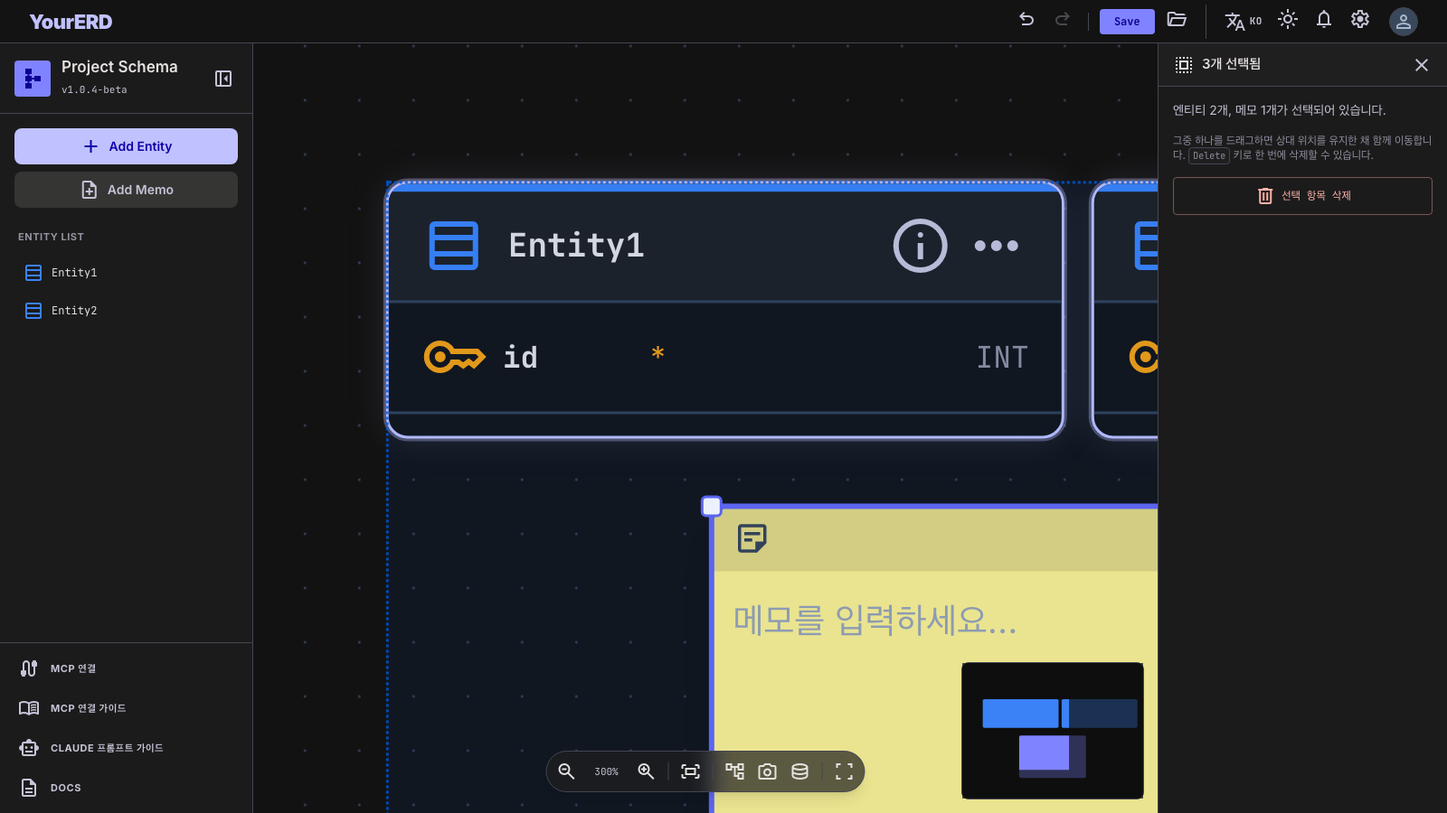
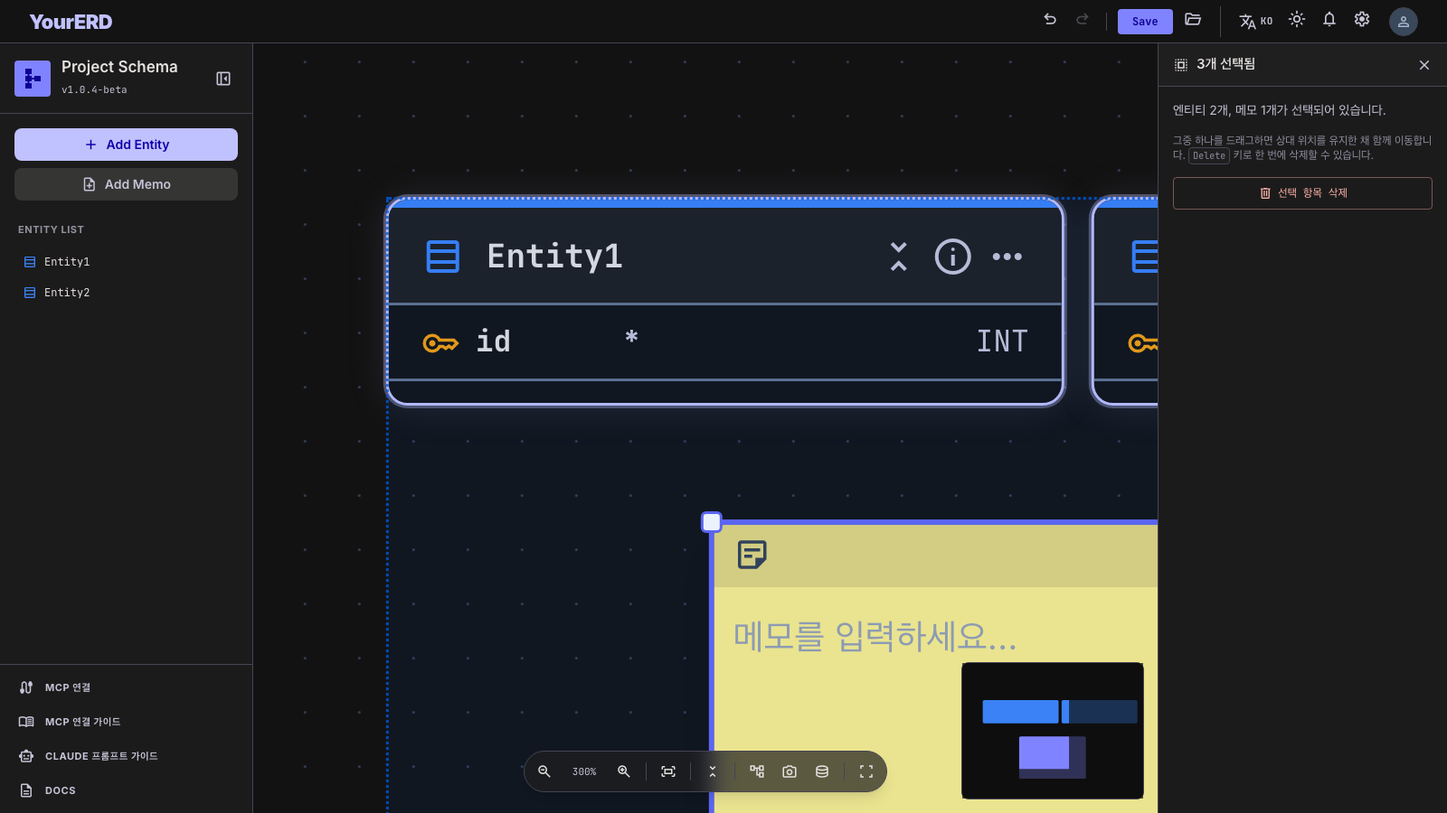
feat(node): 엔티티 노드 가독성 개선 — 아이콘 크기 정정·행 압축·접기/펼치기
17테이블·350컬럼 규모에서 작은 노트북 100% 배율로 편집할 때 한 화면에 들어오는
엔티티가 너무 적던 문제를 해결한다.

근본 원인은 예상 밖이었다. Google Fonts의
`.material-symbols-outlined { font-size: 24px }` 는 캐스케이드 레이어 밖인데
Tailwind v4 유틸리티는 @layer utilities 안이라, 레이어 밖 선언이 항상 이긴다.
그래서 컴포넌트에 붙인 text-[14px]/[16px]/[18px] 가 전부 무시되고 앱의 아이콘
28개가 모두 24px 로 렌더되고 있었다(툴바·사이드바 포함 전역). 이것이 컬럼 행
높이를 32px 로 고정하던 직접 원인이다. index.css 에 같은 '레이어 밖' 규칙으로
실제 사용 중인 10개 크기만 되돌려 컴포넌트 무수정으로 전역 해결했다.

이어서:
- 컬럼 행 py-1 → py-0.5 leading-[15px] (서브타입 박스 행과 밀도 통일)
- --color-node-border 다크 #334155→#64748b, 라이트 #b0a8d0→#8b82ab
- 컬럼 타입 opacity-70 제거, NOT NULL * 를 PK 주황에서 중립색으로 분리
- 엔티티 접기/펼치기 — 헤더 chevron + 컬럼 수 배지 + 줌 툴바 일괄 토글

접힘은 저장 포맷이 아니라 UI 상태(erdStore.collapsedEntityIds)다.
types/erd.ts·MCP·협업 op·저장 파일을 전혀 건드리지 않는다. 접혀도 핸들과
entity-info-icon 이 남아 연결·편집 경로가 보존된다(17개 e2e 가 쓰는 셀렉터).

정량 결과 (1440x900 · 100%, git stash 대조 실측):
- 컬럼 행 32px → 19px (-41%)
- 세로 900px 에 통째로 담기는 테이블 14/17 → 17/17
- 전체 노드 높이 합 10,096px → 7,636px (-24%)
- 노드 테두리 대비 1.8:1 → 4.0:1
- 모두 접으면 697px, Fit View 줌 20% → 38%

검증: verify_node_density.mjs 신규 17항목 PASS, 회귀 15종 PASS,
빌드 PASS, lint 기존 baseline 16건 유지(신규 0), 다크·라이트 스크린샷 확인.

부수 정리: verify_inline_edit.mjs 가 결함 3개로 한 번도 통과한 적 없던 것을
수정해 처음 PASS — 빈 캔버스에서 노드를 먼저 대기, 셀렉터 input 이 숨은
input[type=file] 에 매칭, page.keyboard.fill 은 Playwright 에 없는 API.

범위 밖(의도적): 줌 기반 LOD, 노드 폭 상한·말줄임, 큰 테이블 내부 스크롤,
우클릭 메뉴 접기 항목.

diff --git a/erd-service/public/manual.html b/erd-service/public/manual.html
@@ -141,7 +141,7 @@
           <li><strong>클릭</strong> — 엔티티 본문(물리명, 논리명, 설명, 색상, 컬럼, SubSet)을 편집하는 <strong>모달</strong>을 엽니다.</li>
           <li><strong>마우스 올리기(호버)</strong> — 클릭 없이 훑어볼 수 있는 <strong>읽기전용 미리보기</strong>가 뜹니다. 설명(Description)과 UNIQUE 여부처럼 노드 본문에는 표시되지 않는 정보까지 한 번에 보여줍니다.</li>
           <li><strong>노드 더블클릭 빠른 편집</strong> — 캔버스 상의 엔티티 <strong>물리명·논리명(한글명)</strong>이나 컬럼 <strong>속성명·한글명·데이터 타입</strong>을 <strong>더블클릭</strong>하면 모달을 열지 않고 캔버스 상에서 바로 수정할 수 있습니다(→ 5.1).</li>
-          <li>엔티티 본문(헤더 제외)을 클릭하면 <strong>선택(하이라이트)</strong>만 되며, 모달은 열리지 않습니다. 또는 <strong>우클릭 → 편집</strong>으로도 같은 모달을 열 수 있습니다(→ 4.4).</li>
+          <li>엔티티 본문(헤더 제외)을 클릭하면 <strong>선택(하이라이트)</strong>만 되며, 모달은 열리지 않습니다. 또는 <strong>우클릭 → 편집</strong>으로도 같은 모달을 열 수 있습니다(→ 4.6).</li>
         </ul>
         <p>모달에서 편집 가능한 항목:</p>
         <table>
@@ -154,7 +154,19 @@
         <div class="note">노드·사이드바·편집 모달 모두 <strong>물리명 + 논리명</strong>을 함께 표시합니다.</div>
         <h3>4.3 엔티티 삭제</h3>
         <p>편집 모달 헤더의 <strong>🗑(삭제)</strong> 버튼을 누르거나, 엔티티를 <strong>우클릭 → 삭제</strong>하거나, 엔티티를 선택한 상태에서 <strong><code>Delete</code></strong> 키를 누르면 확인 후 삭제됩니다. 연결된 관계선과, 다른 엔티티에 자동 생성됐던 FK 컬럼도 함께 정리됩니다.</p>
-        <h3>4.4 우클릭 컨텍스트 메뉴</h3>
+        <h3>4.5 엔티티 접기 / 펼치기</h3>
+        <p>엔티티 헤더 우측의 <strong>접기 아이콘</strong>을 누르면 컬럼 목록과 SubSet 영역이 감춰지고
+        <strong>헤더만 남습니다.</strong> 작은 노트북처럼 세로 공간이 부족할 때, 지금 보는 테이블 2~3개만
+        펼쳐 두고 나머지는 접으면 전체 구조와 상세를 한 화면에서 함께 볼 수 있습니다.</p>
+        <ul>
+          <li>접힌 엔티티에는 <strong>컬럼 수 배지</strong>가 표시되어 규모를 알 수 있습니다.</li>
+          <li>접혀 있어도 <strong>관계선 연결·선택·삭제·ⓘ 편집 모달</strong>은 그대로 동작합니다.</li>
+          <li>줌 툴바의 <strong>모두 접기 / 모두 펼치기</strong> 버튼으로 한 번에 전환할 수 있습니다.
+          모두 접은 뒤 <strong>자동 정렬(🌳)</strong>을 누르면 간격까지 다시 계산되어 훨씬 촘촘해집니다.</li>
+          <li>접힘 상태는 <strong>보기 설정</strong>이라 다이어그램에 저장되지 않습니다. 다시 열면 모두 펼쳐진 상태로 시작합니다.</li>
+        </ul>
+
+        <h3>4.6 우클릭 컨텍스트 메뉴</h3>
         <p>엔티티(또는 관계선·메모)를 <strong>우클릭</strong>하면 <strong>편집 · 삭제</strong> 두 항목의 메뉴가 뜹니다. info 아이콘·✎ 아이콘 클릭과 동일하게 편집 모달을 열 수 있는 대체 경로이며, 메모처럼 전용 아이콘이 없는 요소는 이 방법이 편집 모달을 여는 유일한 경로입니다.</p>
       </section>
 
@@ -311,6 +323,7 @@
           <tr><td>배율 표시</td><td>현재 확대 배율</td></tr>
           <tr><td>확대 🔍＋</td><td>줌 인</td></tr>
           <tr><td>화면 맞춤</td><td>모든 엔티티가 보이도록 맞춤</td></tr>
+          <tr><td>모두 접기 / 모두 펼치기</td><td>모든 엔티티를 헤더만 남기고 접거나 다시 펼침 (→ 4.5)</td></tr>
           <tr><td>자동 정렬 🌳</td><td>관계 구조에 맞춰 엔티티 자동 배치 (실행 취소 가능)</td></tr>
           <tr><td>PNG 내보내기 📷</td><td>다이어그램을 PNG 이미지로 저장</td></tr>
           <tr><td>SQL 내보내기 🗄</td><td>MySQL DDL(<code>.sql</code>)로 내보내기</td></tr>

diff --git a/erd-service/src/components/nodes/EntityNode.tsx b/erd-service/src/components/nodes/EntityNode.tsx
@@ -96,6 +96,10 @@ function EntityNode({ data }: NodeProps) {
   const openPreview = () => { cancelHide(); setShowPreview(true); };
   const scheduleHidePreview = () => { cancelHide(); hideTimerRef.current = window.setTimeout(() => setShowPreview(false), 150); };
 
+  // 접힘 여부만 selector 로 구독 — boolean 이라 값이 바뀔 때만 이 노드가 리렌더된다
+  const collapsed = useERDStore(s => s.collapsedEntityIds.includes(entityData.id));
+  const toggleCollapse = useERDStore(s => s.toggleEntityCollapse);
+
   const pkCols = entityData.columns.filter(c => c.isPK);
   const nonPKCols = entityData.columns.filter(c => !c.isPK);
 
@@ -166,7 +170,7 @@ function EntityNode({ data }: NodeProps) {
     const isEditingType = editingKey === `col-type-${col.id}`;
 
     return (
-      <div key={col.id} className="px-3 py-1 flex items-center justify-between gap-2 hover:bg-surface-variant group">
+      <div key={col.id} className="px-3 py-0.5 leading-[15px] flex items-center justify-between gap-2 hover:bg-surface-variant group">
         <div className={`flex items-center gap-1.5 min-w-0 flex-1 ${!isPK && !col.isFK ? 'pl-5' : ''}`}>
           {isPK && (
             <span className="material-symbols-outlined text-[14px] text-pk-color shrink-0" title="Primary Key">key</span>
@@ -218,14 +222,14 @@ function EntityNode({ data }: NodeProps) {
               {col.logicalName ? (
                 col.logicalName
               ) : (
-                <span className="opacity-0 group-hover:opacity-40 hover:!opacity-100 text-outline text-[9px] italic">
+                <span className="opacity-0 group-hover:opacity-60 hover:!opacity-100 text-outline text-[9px] italic">
                   {t('node.addLogical')}
                 </span>
               )}
             </span>
           )}
 
-          {col.isNN && <span className="text-pk-color text-[11px] shrink-0">*</span>}
+          {col.isNN && <span className="text-on-surface-variant text-[11px] font-bold shrink-0" title="NOT NULL">*</span>}
         </div>
 
         {isEditingType ? (
@@ -238,7 +242,7 @@ function EntityNode({ data }: NodeProps) {
           />
         ) : (
           <span
-            className="font-mono text-[11px] text-on-surface-variant opacity-70 group-hover:opacity-100 shrink-0 cursor-pointer hover:text-primary hover:underline"
+            className="font-mono text-[11px] text-on-surface-variant shrink-0 cursor-pointer hover:text-primary hover:underline"
             title={t('node.dblType')}
             data-testid="col-type"
             onDoubleClick={e => {
@@ -335,6 +339,25 @@ function EntityNode({ data }: NodeProps) {
             )}
           </div>
           <div className="flex items-center gap-1 shrink-0">
+            {/* 접힘일 때만 컬럼 수를 보여줘 정보 손실을 보완한다 */}
+            {collapsed && (
+              <span
+                className="font-mono text-[10px] text-on-surface-variant bg-surface-variant rounded px-1.5 py-px shrink-0"
+                data-testid="entity-column-count"
+              >
+                {entityData.columns.length}
+              </span>
+            )}
+            <button
+              className="text-on-surface-variant hover:text-primary cursor-pointer flex items-center"
+              title={t(collapsed ? 'node.expand' : 'node.collapse')}
+              data-testid="entity-collapse-toggle"
+              onClick={e => { e.stopPropagation(); toggleCollapse(entityData.id); }}
+            >
+              <span className="material-symbols-outlined text-[16px]">
+                {collapsed ? 'unfold_more' : 'unfold_less'}
+              </span>
+            </button>
             <div
               className="flex items-center"
               onMouseEnter={openPreview}
@@ -379,6 +402,9 @@ function EntityNode({ data }: NodeProps) {
           </div>
         )}
 
+        {/* 본문 — 접히면 헤더만 남는다 (핸들·info 아이콘은 유지되므로 연결·편집은 그대로 동작) */}
+        {!collapsed && (
+        <>
         {/* PK Columns */}
         {pkCols.length > 0 && (
           <div className="border-b border-node-border py-1">
@@ -571,6 +597,8 @@ function EntityNode({ data }: NodeProps) {
               ))}
             </div>
           </div>
+        )}
+        </>
         )}
       </div>
 

diff --git a/erd-service/public/en/manual.html b/erd-service/public/en/manual.html
@@ -143,7 +143,7 @@
           <li><strong>Click</strong> — opens the <strong>modal</strong> for editing the entity (physical name, logical name, description, color, columns, SubSet).</li>
           <li><strong>Hover</strong> — shows a <strong>read-only preview</strong> you can skim without clicking. It includes information the node body does not show, such as the description and whether a column is UNIQUE.</li>
           <li><strong>Double-click quick edit on the node</strong> — <strong>double-click</strong> an entity's <strong>physical or logical name</strong>, or a column's <strong>name, logical name or data type</strong>, to edit it in place without opening the modal (see 5.1).</li>
-          <li>Clicking the entity body (outside the header) only <strong>selects (highlights)</strong> it; no modal opens. <strong>Right-click → Edit</strong> opens the same modal (see 4.4).</li>
+          <li>Clicking the entity body (outside the header) only <strong>selects (highlights)</strong> it; no modal opens. <strong>Right-click → Edit</strong> opens the same modal (see 4.6).</li>
         </ul>
         <p>What you can edit in the modal:</p>
         <table>
@@ -156,7 +156,22 @@
         <div class="note">The node, the sidebar and the editor modal all show the <strong>physical name and the logical name</strong> together.</div>
         <h3>4.3 Deleting an entity</h3>
         <p>Press the <strong>🗑 (delete)</strong> button in the modal header, <strong>right-click → Delete</strong>, or select the entity and press <strong><code>Delete</code></strong>. After you confirm, the entity is removed along with its relationships and any FK columns that were auto-generated in other entities.</p>
-        <h3>4.4 Right-click context menu</h3>
+        <h3>4.5 Collapsing and expanding an entity</h3>
+        <p>The <strong>collapse icon</strong> on the right of an entity header hides its column list and SubSet
+        region, leaving <strong>only the header</strong>. When vertical space is tight — a small laptop, for
+        instance — keep the two or three tables you are working on expanded and collapse the rest, and the
+        overall structure and the detail fit on one screen together.</p>
+        <ul>
+          <li>A collapsed entity shows a <strong>column-count badge</strong> so you still know how big it is.</li>
+          <li>While collapsed, <strong>drawing relationships, selecting, deleting and the ⓘ editor modal</strong> all keep working.</li>
+          <li>The <strong>Collapse all / Expand all</strong> button in the zoom toolbar switches every entity at once.
+          Collapse everything and then press <strong>Auto layout (🌳)</strong> — the spacing is recomputed for the
+          smaller nodes, so the diagram packs much tighter.</li>
+          <li>Collapsing is a <strong>view setting</strong>, not part of the diagram: it is not saved, and reopening
+          the diagram starts with everything expanded.</li>
+        </ul>
+
+        <h3>4.6 Right-click context menu</h3>
         <p><strong>Right-clicking</strong> an entity (or a relationship or memo) opens a menu with <strong>Edit</strong> and <strong>Delete</strong>. It is an alternative route to the same editor modal as the info and ✎ icons — and for elements without a dedicated icon, such as memos, it is the only way to open the modal.</p>
       </section>
 
@@ -313,6 +328,7 @@
           <tr><td>Zoom level</td><td>Current zoom percentage</td></tr>
           <tr><td>Zoom in 🔍＋</td><td>Zoom in</td></tr>
           <tr><td>Fit view</td><td>Fits every entity on screen</td></tr>
+          <tr><td>Collapse all / Expand all</td><td>Collapses every entity down to its header, or expands them again (see 4.5)</td></tr>
           <tr><td>Auto layout 🌳</td><td>Arranges entities to match the relationship structure (undoable)</td></tr>
           <tr><td>Export PNG 📷</td><td>Saves the diagram as a PNG image</td></tr>
           <tr><td>Export SQL 🗄</td><td>Exports MySQL DDL (<code>.sql</code>)</td></tr>

diff --git a/erd-service/src/store/erdStore.ts b/erd-service/src/store/erdStore.ts
@@ -73,6 +73,12 @@ interface ERDStore {
   openMemoEditor: (id: string) => void;
   closeEditor: () => void;
 
+  // 노드 접기 — 작은 화면에서 지금 보는 테이블만 펼쳐 두기 위한 **UI 상태**.
+  // 저장 포맷·types/erd.ts·MCP·협업 op를 건드리지 않으려고 문서가 아닌 스토어에만 둔다(세션 한정).
+  collapsedEntityIds: string[];
+  toggleEntityCollapse: (id: string) => void;
+  setAllEntitiesCollapsed: (collapsed: boolean) => void;
+
   addMemo: (pos?: { x: number; y: number }) => void;
   updateMemo: (id: string, updates: Partial<Omit<Memo, 'id'>>) => void;
   deleteMemo: (id: string) => void;
@@ -168,6 +174,7 @@ export const useERDStore = create<ERDStore>((set, get) => {
     editorOpen: null,
     selectedEntityIds: [],
     selectedMemoIds: [],
+    collapsedEntityIds: [],
     pendingConnection: null,
 
     readOnly: false,
@@ -271,6 +278,15 @@ export const useERDStore = create<ERDStore>((set, get) => {
     openRelationshipEditor: (id) => set({ selectedEdgeId: id, selectedEntityId: null, selectedMemoId: null, editorOpen: 'relationship' }),
     openMemoEditor: (id) => set({ selectedMemoId: id, selectedEntityId: null, selectedEdgeId: null, editorOpen: 'memo' }),
     closeEditor: () => set({ editorOpen: null }),
+
+    toggleEntityCollapse: (id) => set(s => ({
+      collapsedEntityIds: s.collapsedEntityIds.includes(id)
+        ? s.collapsedEntityIds.filter(x => x !== id)
+        : [...s.collapsedEntityIds, id],
+    })),
+    setAllEntitiesCollapsed: (collapsed) => set(s => ({
+      collapsedEntityIds: collapsed ? s.entities.map(e => e.id) : [],
+    })),
 
     addMemo: (pos) => {
       if (get().readOnly) return;
@@ -587,7 +603,7 @@ export const useERDStore = create<ERDStore>((set, get) => {
 
     loadData: (entities, relationships, positions, memos = [], opts) => {
       if (!opts?.silent) pushHistory('loadData');
-      set({ entities, relationships, nodePositions: positions, memos, selectedEntityId: null, selectedEdgeId: null, selectedMemoId: null, selectedEntityIds: [], selectedMemoIds: [] });
+      set({ entities, relationships, nodePositions: positions, memos, selectedEntityId: null, selectedEdgeId: null, selectedMemoId: null, selectedEntityIds: [], selectedMemoIds: [], collapsedEntityIds: [] });
     },
   };
 });

diff --git a/erd-service/src/index.css b/erd-service/src/index.css
@@ -27,7 +27,7 @@
   --color-error-container: #93000a;
   --color-node-header: #1e1e1e;
   --color-node-bg: #121212;
-  --color-node-border: #334155;
+  --color-node-border: #64748b;
   --color-pk-color: #f59e0b;
   --color-fk-color: #6366f1;
   --color-input-bg: #0a0a0a;
@@ -63,7 +63,7 @@ html[data-theme="light"] {
   --color-error-container: #ffdad6;
   --color-node-header: #e9e6f4;
   --color-node-bg: #f2f0f9;
-  --color-node-border: #b0a8d0;
+  --color-node-border: #8b82ab;
   --color-pk-color: #d97706;
   --color-fk-color: #4338ca;
   --color-input-bg: #ffffff;
@@ -96,6 +96,23 @@ html, body {
   font-variation-settings: 'FILL' 0, 'wght' 400, 'GRAD' 0, 'opsz' 24;
   user-select: none;
 }
+
+/* 아이콘 크기 복구.
+   Google Fonts의 `.material-symbols-outlined { font-size: 24px }` 는 캐스케이드 레이어 **밖**에 있고,
+   Tailwind v4의 유틸리티는 @layer utilities **안**에 있다. 레이어 밖 선언이 항상 이기므로
+   컴포넌트에 붙인 text-[14px] 류가 전부 무시되고 앱의 아이콘 28개가 모두 24px로 렌더되고 있었다.
+   (컬럼 행 높이가 32px로 고정되던 직접 원인이기도 하다.)
+   같은 '레이어 밖' 규칙으로 실제 사용 중인 크기만 되돌린다 — 컴포넌트는 손대지 않는다. */
+.material-symbols-outlined.text-\[11px\] { font-size: 11px; }
+.material-symbols-outlined.text-\[12px\] { font-size: 12px; }
+.material-symbols-outlined.text-\[13px\] { font-size: 13px; }
+.material-symbols-outlined.text-\[14px\] { font-size: 14px; }
+.material-symbols-outlined.text-\[15px\] { font-size: 15px; }
+.material-symbols-outlined.text-\[16px\] { font-size: 16px; }
+.material-symbols-outlined.text-\[18px\] { font-size: 18px; }
+.material-symbols-outlined.text-\[20px\] { font-size: 20px; }
+.material-symbols-outlined.text-\[40px\] { font-size: 40px; }
+.material-symbols-outlined.text-\[48px\] { font-size: 48px; }
 
 /* 글래스 플로팅 툴바 */
 .glass-toolbar {

diff --git a/erd-service/src/components/canvas/ERDCanvas.tsx b/erd-service/src/components/canvas/ERDCanvas.tsx
@@ -40,6 +40,11 @@ function ZoomToolbar({ isFullscreen, onToggleFullscreen }: { isFullscreen: boole
   const t = useT();
   const { zoomIn, zoomOut, fitView, getNodes } = useReactFlow();
   const { zoom } = useViewport();
+  // 일괄 접기/펼치기 — 작은 화면에서 지금 보는 테이블만 펼쳐 두는 워크플로의 출발점
+  const entityCount = useERDStore(s => s.entities.length);
+  const collapsedCount = useERDStore(s => s.collapsedEntityIds.length);
+  const setAllCollapsed = useERDStore(s => s.setAllEntitiesCollapsed);
+  const allCollapsed = entityCount > 0 && collapsedCount >= entityCount;
   const { entities, relationships, setAllPositions } = useERDStore();
 
   const handleAutoLayout = () => {
@@ -82,6 +87,17 @@ function ZoomToolbar({ isFullscreen, onToggleFullscreen }: { isFullscreen: boole
         <div className="w-px h-5 bg-outline-variant mx-1" />
         <button className={btn} title="Fit View" onClick={() => fitView({ padding: 0.3 })}>
           <span className="material-symbols-outlined text-[18px]">fit_screen</span>
+        </button>
+        <div className="w-px h-5 bg-outline-variant mx-1" />
+        <button
+          className={btn}
+          title={t(allCollapsed ? 'canvas.expandAll' : 'canvas.collapseAll')}
+          data-testid="collapse-all-toggle"
+          onClick={() => setAllCollapsed(!allCollapsed)}
+        >
+          <span className="material-symbols-outlined text-[18px]">
+            {allCollapsed ? 'unfold_more' : 'unfold_less'}
+          </span>
         </button>
         <div className="w-px h-5 bg-outline-variant mx-1" />
         <button className={btn} title={t('canvas.autoLayout')} onClick={handleAutoLayout}>

diff --git a/erd-service/src/i18n/ko.ts b/erd-service/src/i18n/ko.ts
@@ -316,6 +316,10 @@ export const ko = {
 
   // ── MCP 토큰 자리표시자 (복사용 명령에 들어감) ──
   'mcp.tokenPlaceholderText': '<발급한_토큰>',
+  'node.collapse': '접기',
+  'node.expand': '펼치기',
+  'canvas.collapseAll': '모두 접기',
+  'canvas.expandAll': '모두 펼치기',
 } as const;
 
 export type MessageKey = keyof typeof ko;

diff --git a/erd-service/src/i18n/en.ts b/erd-service/src/i18n/en.ts
@@ -315,4 +315,8 @@ export const en: Record<MessageKey, string> = {
 
   // ── MCP token placeholder (appears in the copyable command) ──
   'mcp.tokenPlaceholderText': '<YOUR_TOKEN>',
+  'node.collapse': 'Collapse',
+  'node.expand': 'Expand',
+  'canvas.collapseAll': 'Collapse all',
+  'canvas.expandAll': 'Expand all',
 };

diff --git a/CLAUDE.md b/CLAUDE.md
@@ -69,3 +69,4 @@
 | 2026-07-30 | 관계선 중간 우회(꺾기) — 선을 드래그해 사이에 놓인 엔티티 피하기 | 프론트엔드 | 사용자 요청 — A·B 사이에 C 엔티티가 있으면 관계선이 그 위를 지나 가려지는데, 기존 끝점 부착 위치 드래그(2026-06-29)로는 해결할 수 없었음. 선을 위/아래로 드래그하면 양쪽 엔티티 쪽 구간이 늘어나며 우회하는 직각 경로 추가. 데이터 모델은 **가산적**: `Relationship.midOffset?: MidOffset`(자동 중간점 기준 **상대** 오프셋이라 엔티티 이동에도 우회 모양 유지, optional이라 기존 저장 파일 호환). 렌더는 `edgeConnection.ts`에 순수 기하 `buildBendRoute`(엔티티 법선으로 24px stub → 우회축까지 → 횡단 → 반대쪽 stub → 진입, `simplify`+`roundedPolyline`로 자동 경로와 같은 8px 라운드 코너) 신설 — `midOffset`이 없으면 기존 `getSmoothStepPath` 그대로라 무회귀. stub 덕에 마지막 구간이 항상 면 법선 방향이어서 까마귀발·식별 막대는 수정 없이 정렬됨. 축은 부모 쪽 연결 면에서 파생(`bendAxis`: 좌/우 면=상하 드래그, 상/하 면=좌우 드래그)하고 커서(`ns-resize`/`ew-resize`)로 표시, 의미 없는 축으로만 끌면 커밋하지 않아 히스토리·협업 op를 남기지 않음. 트리거는 선 전체(히트 path, `nopan`으로 팬·더블클릭 줌 차단) + 선 중앙을 덮는 ✎ 아이콘(3px 임계값으로 제자리 클릭은 편집 모달 유지, 드래그 직후 click은 300ms 억제). 해제는 선/아이콘 더블클릭 또는 관계 편집 모달의 **우회 해제** 버튼(우회 있을 때만 노출). `erdOps.updateRelationshipMidOffset`(순수, FK 부수효과 없음)·`opDispatch` op 등록(실시간 협업)·`erdStore` thin wrapper(`pushHistory('relMid:id')` → Undo 1회). 구현 중 발견·수정한 결함 3건: ① 보이는 선 path들이 투명 히트 path 위에 겹쳐 pointer 이벤트를 가로채 선 정중앙에서만 드래그가 안 먹던 문제(`pointerEvents:'none'` 부여, 클릭 선택은 g로 버블링돼 그대로), ② 캔버스 더블클릭 메모 생성이 `.react-flow__edgelabel-renderer`(✎·끝점 핸들)를 걸러내지 않아 엣지 오버레이 더블클릭 시 엉뚱한 메모가 생기던 **기존 버그**(끝점 핸들 더블클릭에도 해당), ③ 더블클릭의 두 번째 클릭이 ✎ onClick을 발동해 우회 해제와 동시에 편집 모달이 열리던 문제(`e.detail>1` 가드). `verify_edge_bend.mjs` e2e 신규 25항목 PASS(우회 필요 상황 재현→아래/위 우회·장애물 회피 확인·끝점 불변·경로 길이 증가·Q코너 4개·축 제약·클릭 선택 보존·✎ 선 위 위치·아이콘 드래그·영속·Undo/Redo·더블클릭 복귀·메모 미생성·모달 버튼), 회귀 verify_edge_anchor 15·verify_memo 17·verify_rel_sidepanel 28·verify_features 14·verify_self_ref 13·verify_multiselect 23 PASS, 빌드 PASS, 스크린샷 확인(ss_edge_bend). manual.html·USER_MANUAL.md 6.4절을 "관계선 모양 조정 — 끝점 위치·우회 경로"로 확장. ※ 부수 정리: `verify_edge_button_pos.mjs`가 원래부터 실패하던 stale(① 빈 캔버스에서 `.react-flow__node`를 먼저 기다려 항상 타임아웃, ② bbox 중심 force 클릭이 선 위가 아님, ③ 기본 그리드 10px 간격이라 엣지가 노드에 완전히 가려짐)임을 커밋본 대조(`git stash`)로 확인하고 3건 모두 수정해 PASS로 복구 |
 | 2026-07-30 | 관계선 우회 드래그 축 판정 수정 (하단/상단 면 부착 시 무반응) | 프론트엔드 | 같은 날 추가한 우회 기능이 드래그 축을 **부모 쪽 연결 면**으로 판정해(`bendAxis(sourcePosition)`), 사용자가 끝점을 하단 면에 붙여 둔 좌우 배치에서는 선이 가로로 달리는데도 축이 x로 잡혀 상/하 드래그가 전혀 먹지 않던 문제 수정 — 축을 **두 끝점의 실제 진행 방향**으로 판정하도록 변경(`bendAxis(s, t)`: 가로 거리 ≥ 세로 거리면 y축=상/하 드래그). 좌우/상하 배치 모두 연결 면과 무관하게 올바른 축이 잡힌다. 추가로 오프셋 0의 기준선을 개선 — 양 끝이 같은 방향으로 나가면(둘 다 하단/상단, 둘 다 좌/우) 바깥쪽 stub을 기준(`baseX`/`baseY`)으로 삼아 자동 경로와 같은 모양에서 드래그가 시작되게 함(기존엔 끝점 y 평균이라 드래그 시작 시 선이 튀었음). `edgeConnection.ts`(bendAxis 시그니처·baseX/baseY)·`RelationshipEdge.tsx`(비우회 상태의 커서/툴팁 축 계산도 같은 함수 사용) 수정. `verify_edge_bend.mjs`에 하단 면 부착 케이스 추가(끝점 2개를 하단 면으로 드래그 → 좌우 배치 확인 → 상/하 드래그로 우회 → 끝점 하단 면 유지) **28항목 PASS**, 회귀 verify_edge_anchor 15·verify_rel_sidepanel 28·verify_features 14·verify_self_ref 13 PASS, 빌드 PASS, 스크린샷 확인(ss_edge_bend_bottom — 하단 면 부착 상태에서 중간 엔티티 아래로 우회). manual.html·USER_MANUAL.md 6.4절에 "연결 면이 아니라 두 엔티티의 배치로 축을 판단" 명시 |
 | 2026-09-01 | 한국어/영어 다국어(i18n) 지원 | 프론트엔드+문서 | 한국어 단일 언어였던 UI·가이드를 영어와 함께 지원 — 한국어 기본 + 상단 바 🌐 토글(자동 감지 없음), 선택은 localStorage 영속. **라이브러리 없이 자체 경량 구현**: `src/i18n/`(`locale.ts` zustand persist(`erd-locale`, themeStore 패턴 미러링)·정본 `ko.ts`·`en.ts`·`errors.ts`·`labels.ts`·`index.ts`의 `useT()`/`getT()`/`{name}` 보간) 신규. **타입 안전**: `MessageKey = keyof typeof ko` + `en: Record<MessageKey, string>`이라 번역 누락이 런타임 빈 문자열이 아니라 `tsc -b` 컴파일 에러로 잡힘. **경계 정의가 작업의 핵심** — 번역 대상은 `src/components/**`·`diagramStore`·`sharedSessionStore`·`dialogStore`·`fileIO`·`exportImage`의 화면 문자열(고유 ~170개)이고, **제외**: `server/**`의 `{error:'code'}`(기계 판독용)·`collab-hub`/`collab-routes`의 콘솔 전용 message·`mcp/src/**` 전부(LLM 대면, 로케일 무관해야 함)·`src/types/erd.ts`(`RELATIONSHIP_LABELS`를 MCP 도구 설명이 소비하는 정본이라 무변경, UI만 `relType.*` 키로 별도 조회)·사용자 데이터(논리명·설명·메모·다이어그램명)·erdOps 기본값(`Entity{N}`·`id`·`column`·`SubType{N}`·`SubSet`·`parent_` — 전부 이미 영문). **선행 정리(0단계)**: 삭제 확인 다이얼로그 4종이 App/ERDCanvas/각 편집모달에 3벌씩 복붙돼 있던 것을 `store/deleteActions.ts`로 통합(번역 키 4개로 축소), `core/relationshipSides.ts`의 `labelForSides`가 '식별'·'점선' 조각을 코드로 이어붙여 영어 어순에서 깨지던 것을 `i18n/labels.ts`로 옮기고 조립 순서를 사전(`rel.sideLabel` 템플릿)이 소유하게 재설계 — core에는 순수 로직만 잔류. **에러 문구 중앙화**: `AuthModal`에만 있던 코드→문구 맵을 `i18n/errors.ts`로 승격하고 `not_found`·`login_required`·`invalid_or_revoked_share`·`name_required`·`invalid_token`까지 커버(기존엔 `오류가 발생했습니다 (not_found)`처럼 raw 코드가 노출되던 UX 결함 동시 해소). `server/collab-auth.js`의 `'게스트'`는 서버가 로케일을 모르므로 `label: null`로 바꾸고 클라이언트가 `collab.guest`로 폴백(`protocol.ts` 타입 `string \| null`). **생성 텍스트는 생성 시점 로케일을 따름**(사용자 결정): `diagramStore`의 '새 다이어그램'·'○○ 사본' 프리필과 `exportSql`의 파일 헤더·서브타입 구분자 COMMENT(`generateMySQLDDL`/`buildSubtypeDDL`에 `TFunc` 인자 추가 — 스토어를 import하지 않아 순수성 유지). ※ 조사 중 CLAUDE.md 이력의 "식별 관계 FK 논리명 한글 자동 조합"이 현재 코드와 불일치함을 확인 — `erdOps.ts:115`는 부모 PK 논리명을 그대로 복사할 뿐이라 소급 영향 없음. **가이드 3종 영문판**: 세 페이지가 M3 팔레트 CSS를 각자 복붙(번역본 추가 시 6벌)하던 것을 `public/guide.css`로 공통 추출(`:root` 17개 변수 통합, 공통 24블록) 후 `public/en/{manual,mcp-guide,prompt-guide}.html` 신규 — prompt-guide의 한국어 예시 프롬프트 55개는 직역이 아니라 영문 프롬프트로 재작성. 사이드바/McpConnectModal의 가이드 링크를 `guideBase`로 로케일 분기, 각 페이지 목차에 🌐 상호 링크. **e2e 무회귀 장치**: 사전의 한국어 값을 기존 UI와 글자 단위로 동일하게 유지 + 기본 로케일 `ko` → 38개 스크립트가 쓰는 한글 셀렉터 122곳이 **무수정 통과**. `verify_i18n.mjs` 신규 26항목 PASS(토글·`<html lang>`·localStorage 영속·영어 모드에서도 `Entity1`/`id` 불변·SQL 헤더 양방향·삭제 다이얼로그 양방향·`/en/*.html`이 SPA fallback이 아닌 실제 파일로 서빙되는지). 회귀 dev: verify_features 14·verify_editor_modal 18·verify_entity_delete_key 10·verify_relationship_delete_key 14·verify_memo_delete_key 13·verify_rel_sidepanel 28·verify_memo 17·verify_multiselect 23·verify_fk_cleanup ALL PASS. 회귀 prod(8080): verify_server 8·verify_share 18·verify_diagram_duplicate·verify_gnb_cleanup·verify_sidebar_toggle ALL PASS, verify_backend은 기존 stale 1건(`reload 후 캔버스는 빈 상태`)만 실패로 HEAD와 동일함을 `git stash` 대조로 확인. 빌드 PASS, lint는 기존 baseline 16건 그대로(신규 0). 스크린샷 확인(ss_i18n_en·ss_i18n_ko·ss_i18n_guide_en_{manual,mcp,prompt}·ss_guide_ko_*). manual.html·USER_MANUAL.md에 15절 '화면 언어' 신설 + 상단 바 표에 언어/테마 행 추가, 2026-06-18에 제거된 Help 메뉴를 아직 안내하던 stale 문구 정정. ※ 기존 stale 재확인(무관·방치): `verify_subtype` 2건·`verify_sql_export` 1건은 커밋본에서도 동일 실패, `verify_mcp_guide`는 Help 메뉴 제거 이후, `verify_mcp_connect_ui` 1건은 `--scope user` 추가 이후 원래부터 실패 |
+| 2026-09-03 | 엔티티 노드 가독성 개선 (작은 화면 100% 편집 기준) | 프론트엔드 | 17테이블·350컬럼(`hu-commerce`) 실사용 규모에서 작은 노트북 100% 배율 편집 시 한 화면에 들어오는 엔티티가 너무 적던 문제. **조사 중 근본 원인 발견**: Google Fonts의 `.material-symbols-outlined { font-size:24px }`는 캐스케이드 **레이어 밖**인데 Tailwind v4 유틸리티는 `@layer utilities` **안**이라, 컴포넌트에 붙인 `text-[14px]` 류가 전부 무시되고 **앱의 아이콘 28개가 모두 24px로 렌더**되고 있었다(툴바·사이드바 포함 전역). 이것이 컬럼 행 높이를 32px로 고정하던 직접 원인. `index.css`에 같은 '레이어 밖' 규칙으로 실제 사용 중인 10개 크기(11~48px)만 되돌려 **컴포넌트 무수정으로 전역 해결**. 이어서 ① 컬럼 행을 `py-1`→`py-0.5 leading-[15px]`로 압축(서브타입 박스 행 `py-0.5`와 밀도 통일) → **행 32px→19px(−41%)**, ② `--color-node-border` 다크 `#334155`→`#64748b`·라이트 `#b0a8d0`→`#8b82ab`로 **대비 1.8:1→4.0:1**(UI 경계 권장 3:1 충족), ③ 컬럼 타입 `opacity-70` 제거, NOT NULL `*`를 PK와 같은 주황(`text-pk-color`)에서 중립색으로 분리, 논리명 플레이스홀더 `opacity-40`→`60`. ④ **엔티티 접기/펼치기** 신규 — 헤더 우측 chevron(`entity-collapse-toggle`) + 접힘 시 컬럼 수 배지(`entity-column-count`) + 줌 툴바 일괄 토글(`collapse-all-toggle`). 접힘은 **저장 포맷이 아닌 UI 상태**(`erdStore.collapsedEntityIds`)라 `types/erd.ts`·MCP·협업 op·저장 파일을 전혀 건드리지 않는다(다이어그램 전환 시 초기화). 접혀도 핸들·`entity-info-icon`·선택·삭제가 살아 있어 연결·편집 경로가 보존된다(17개 e2e가 쓰는 info 아이콘 유지가 설계 제약). **정량 결과**(1440×900·100%, `git stash` 대조 실측): 세로 900px에 통째로 담기는 테이블 **14/17→17/17**, 전체 노드 높이 합 **10,096px→7,636px(−24%)**, 모두 접으면 **697px**·Fit View 줌 **20%→38%**. `verify_node_density.mjs` 신규 **17항목 PASS**(아이콘 크기 회귀 방지·행 높이·대비비 계산·개별/일괄 접기·접힘 상태 핸들 8개·배지·복원), 회귀 15종 PASS(verify_edge_bend 33·verify_multiselect 23·verify_rel_sidepanel 28·verify_features 14·verify_editor_modal 18·verify_i18n 26·verify_memo 17·verify_edge_anchor 15·verify_self_ref 13·verify_entity_position 5·verify_entity_hover_info 9·verify_edge_button_pos·verify_column_drag·verify_fk_cleanup·verify_handle_size). 빌드 PASS, 다크·라이트 스크린샷 확인. manual.html·USER_MANUAL.md·en/manual.html에 4.5절 '엔티티 접기/펼치기' 신설(기존 4.4→4.6) + 줌 툴바 표 갱신. ※ **부수 정리**: `verify_inline_edit.mjs`가 결함 3개로 **한 번도 통과한 적 없던 것**을 수정해 처음 PASS — ① 빈 캔버스에서 `.react-flow__node`를 먼저 기다려 항상 타임아웃(2026-07-30 `verify_edge_button_pos`와 동일 부류), ② 셀렉터 `input`이 숨은 `input[type=file]`에 매칭, ③ `page.keyboard.fill`은 Playwright에 없는 API. ※ **범위 밖(의도적)**: 줌 기반 LOD(축소가 문제가 아니라는 사용자 확인 + `verify_subtype:114-133`의 말줄임 금지 단언과 충돌), 노드 폭 상한·말줄임(현행 유지 결정), 큰 테이블 max-height+내부 스크롤(접기가 더 낮은 위험으로 같은 문제 해결), 우클릭 메뉴 접기 항목(엔티티 전용 액션을 공용 `ContextMenu`에 넣는 결합 회피), `EntityNode:86`의 selector 없는 전체 스토어 구독(모든 `set()`에 전 노드 리렌더 — 실제 성능 이슈지만 별건), 서브타입 이름 인라인 편집이 `handleFieldSubmit`에 분기가 없어 조용히 버려지는 버그(별건). ※ 기존 stale 유지: `verify_subtype` 2건(커밋본에서도 동일 실패) |

diff --git a/erd-service/USER_MANUAL.md b/erd-service/USER_MANUAL.md
@@ -93,7 +93,7 @@ YourERD는 브라우저에서 ERD(Entity-Relationship Diagram, 개체-관계 다
   UNIQUE 여부처럼 노드 본문에는 표시되지 않는 정보까지 한 번에 보여줍니다.
 - **노드 더블클릭 빠른 편집** — 캔버스 상의 엔티티 **물리명·논리명(한글명)**이나 컬럼 **속성명·한글명·데이터 타입**을 **더블클릭**하면 모달을 열지 않고 바로 수정할 수 있습니다(→ 5.1).
 - 엔티티 본문(헤더 제외)을 클릭하면 **선택(하이라이트)** 만 되며, 모달은 열리지 않습니다.
-  또는 **우클릭 → 편집**으로도 같은 모달을 열 수 있습니다(→ 4.4).
+  또는 **우클릭 → 편집**으로도 같은 모달을 열 수 있습니다(→ 4.6).
 
 모달에서 편집 가능한 항목:
 
@@ -111,7 +111,19 @@ YourERD는 브라우저에서 ERD(Entity-Relationship Diagram, 개체-관계 다
 엔티티를 선택한 상태에서 **`Delete`** 키를 누르면 확인 후 삭제됩니다.
 연결된 관계선과, 다른 엔티티에 자동 생성됐던 FK 컬럼도 함께 정리됩니다.
 
-### 4.4 우클릭 컨텍스트 메뉴
+### 4.5 엔티티 접기 / 펼치기
+
+엔티티 헤더 우측의 **접기 아이콘**을 누르면 컬럼 목록과 SubSet 영역이 감춰지고 **헤더만 남습니다.**
+작은 노트북처럼 세로 공간이 부족할 때, 지금 보는 테이블 2~3개만 펼쳐 두고 나머지는 접으면
+전체 구조와 상세를 한 화면에서 함께 볼 수 있습니다.
+
+- 접힌 엔티티에는 **컬럼 수 배지**가 표시되어 규모를 알 수 있습니다.
+- 접혀 있어도 **관계선 연결·선택·삭제·ⓘ 편집 모달**은 그대로 동작합니다.
+- 줌 툴바의 **모두 접기 / 모두 펼치기** 버튼으로 한 번에 전환할 수 있습니다.
+  모두 접은 뒤 **자동 정렬(🌳)** 을 누르면 간격까지 다시 계산되어 훨씬 촘촘해집니다.
+- 접힘 상태는 **보기 설정**이라 다이어그램에 저장되지 않습니다. 다시 열면 모두 펼쳐진 상태로 시작합니다.
+
+### 4.6 우클릭 컨텍스트 메뉴
 엔티티(또는 관계선·메모)를 **우클릭**하면 **편집 · 삭제** 두 항목의 메뉴가 뜹니다.
 info 아이콘·✎ 아이콘 클릭과 동일하게 편집 모달을 열 수 있는 대체 경로이며,
 메모처럼 전용 아이콘이 없는 요소는 이 방법이 편집 모달을 여는 유일한 경로입니다.
@@ -330,6 +342,7 @@ A와 B를 잇는 관계선 위에 C 엔티티가 겹쳐 선이 가려질 때, **
 | 배율 표시 | `102%` | 현재 확대 배율 |
 | 확대 | 🔍＋ | 줌 인 |
 | 화면 맞춤 | ⛶(fit) | 모든 엔티티가 보이도록 맞춤 |
+| 모두 접기 / 모두 펼치기 | ⌃⌄ | 모든 엔티티를 헤더만 남기고 접거나 다시 펼침 (→ 4.5) |
 | 자동 정렬 | 🌳 | 관계 구조에 맞춰 엔티티 자동 배치 (실행 취소 가능) |
 | PNG 내보내기 | 📷 | 다이어그램을 PNG 이미지로 저장 |
 | SQL 내보내기 | 🗄 | MySQL DDL(`.sql`)로 내보내기 |
